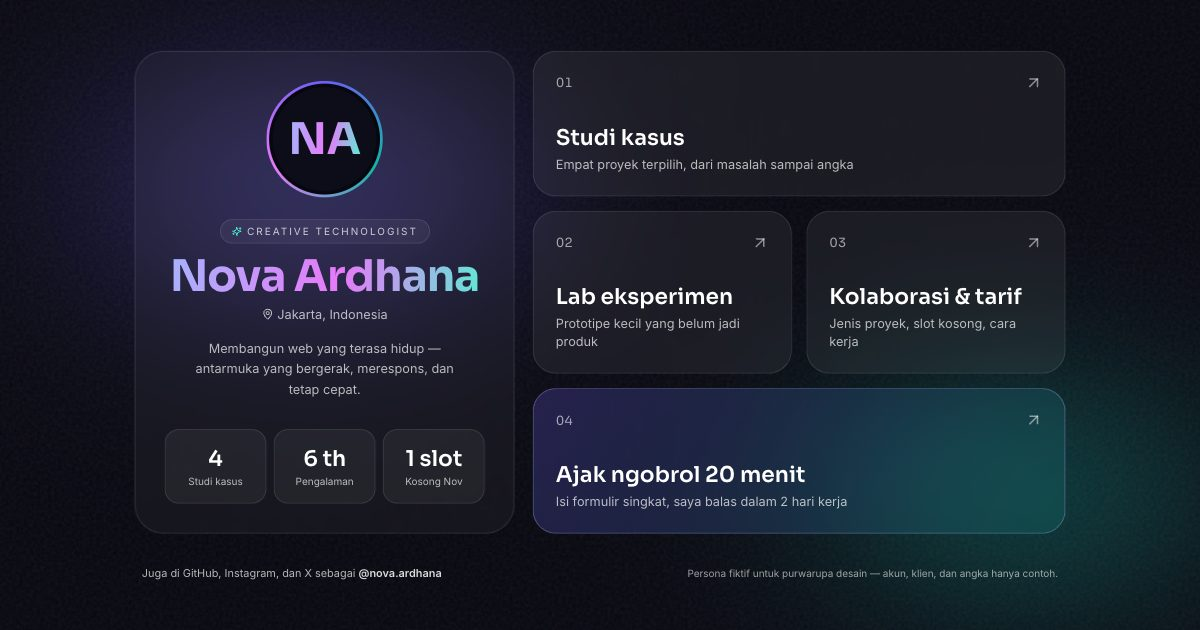
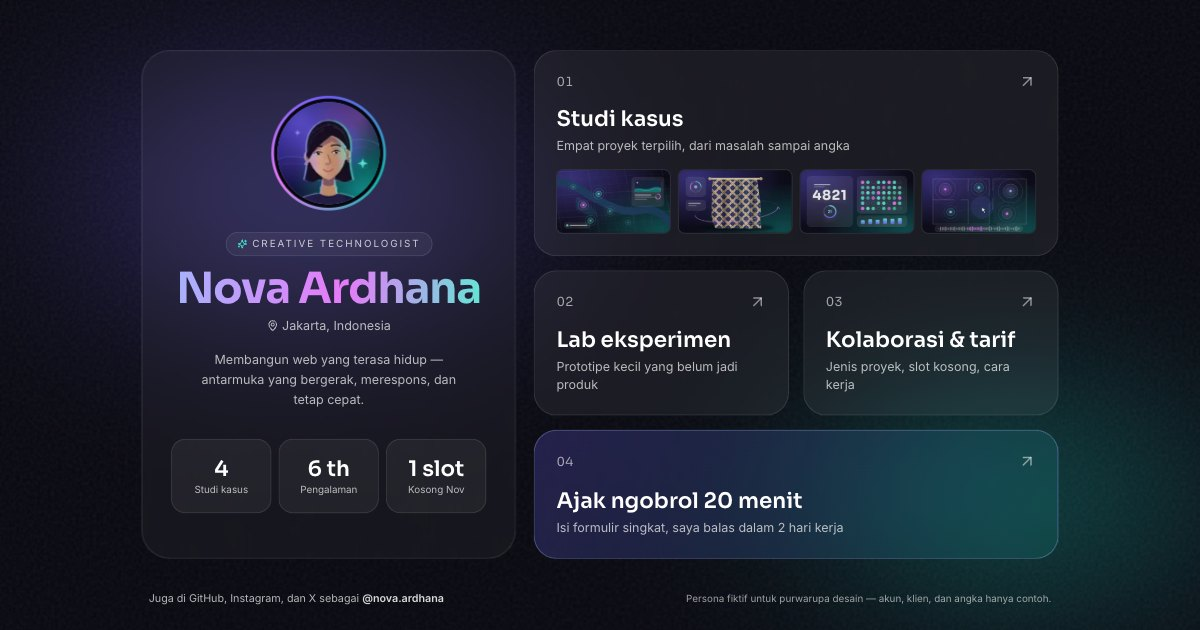
Tambah potret ilustrasi Nova dan sampul empat studi kasus
- Monogram "NA" diganti potret ilustrasi bergaya aurora (persona fiktif, bukan foto)
- Tiap studi kasus di /karya kini bersampul ilustrasi antarmuka; ubin bento
  "Studi kasus" di layar lebar menampilkan deret mini sampulnya
- Gambar statis: varian WebP di public/_img lewat scripts/static-images.mjs,
  dipasang dengan <img srcset> server (tanpa JS klien next/image)
- og.jpg diperbarui; sumber gambar dicatat di public/images/SUMBER.md

diff --git a/lib/nova.js b/lib/nova.js
@@ -24,10 +24,10 @@ export const LINKS = [
 ];
 
 export const KARYA = [
-  { slug: 'peta-banjir', judul: 'Peta Genangan Waktu Nyata', klien: 'Komunitas warga Jakarta Utara (fiktif)', tahun: 2026, peran: 'Desain & front-end', masalah: 'Laporan genangan tersebar di grup percakapan dan cepat tenggelam.', cara: 'Peta ringan yang menerima laporan berfoto, memudar sendiri setelah tiga jam, dan bisa dibuka di ponsel murah.', hasil: [['Waktu muat di 3G', '1,8 dtk'], ['Laporan bulan pertama', '1.240']], stack: ['Next.js', 'MapLibre', 'Service Worker'] },
-  { slug: 'katalog-batik', judul: 'Katalog Batik yang Bisa Diputar', klien: 'Rumah batik di Pekalongan (fiktif)', tahun: 2025, peran: 'Konsep & 3D web', masalah: 'Foto datar tidak memperlihatkan jatuhnya kain.', cara: 'Kain disimulasikan di WebGL; pengunjung bisa memutar dan melihat motif mengikuti lipatan.', hasil: [['Waktu di halaman', '+2,1×'], ['Ukuran model', '380 KB']], stack: ['Three.js', 'Draco', 'Astro'] },
-  { slug: 'dasbor-kelas', judul: 'Dasbor Kehadiran Kelas', klien: 'Bimbel daring (fiktif)', tahun: 2025, peran: 'Riset & desain sistem', masalah: 'Guru menghabiskan 15 menit tiap kelas untuk absen manual.', cara: 'Absen satu ketukan dengan kode kelas yang berganti tiap 30 detik, ditambah ringkasan mingguan untuk orang tua.', hasil: [['Waktu absen', '15 → 2 mnt'], ['Guru aktif', '84']], stack: ['React', 'Supabase', 'Tailwind'] },
-  { slug: 'pameran-suara', judul: 'Pameran Suara Kota', klien: 'Galeri independen di Bandung (fiktif)', tahun: 2024, peran: 'Instalasi web interaktif', masalah: 'Pengunjung pameran daring hanya menggulir lalu pergi.', cara: 'Rekaman suara kota diletakkan di denah; volume berubah mengikuti posisi kursor seperti berjalan di galeri.', hasil: [['Rata-rata kunjungan', '6:40 mnt'], ['Rekaman', '62']], stack: ['Web Audio API', 'Canvas', 'Vite'] },
+  { slug: 'peta-banjir', gambar: '/images/karya/peta-banjir.webp', alt: 'Ilustrasi antarmuka peta genangan: titik laporan warga beriak di sepanjang sungai, dengan kartu laporan berfoto yang memudar setelah tiga jam.', judul: 'Peta Genangan Waktu Nyata', klien: 'Komunitas warga Jakarta Utara (fiktif)', tahun: 2026, peran: 'Desain & front-end', masalah: 'Laporan genangan tersebar di grup percakapan dan cepat tenggelam.', cara: 'Peta ringan yang menerima laporan berfoto, memudar sendiri setelah tiga jam, dan bisa dibuka di ponsel murah.', hasil: [['Waktu muat di 3G', '1,8 dtk'], ['Laporan bulan pertama', '1.240']], stack: ['Next.js', 'MapLibre', 'Service Worker'] },
+  { slug: 'katalog-batik', gambar: '/images/karya/katalog-batik.webp', alt: 'Ilustrasi kain batik bermotif kawung yang tergantung, sebagian ditimpa jaring 3D dan lintasan putar.', judul: 'Katalog Batik yang Bisa Diputar', klien: 'Rumah batik di Pekalongan (fiktif)', tahun: 2025, peran: 'Konsep & 3D web', masalah: 'Foto datar tidak memperlihatkan jatuhnya kain.', cara: 'Kain disimulasikan di WebGL; pengunjung bisa memutar dan melihat motif mengikuti lipatan.', hasil: [['Waktu di halaman', '+2,1×'], ['Ukuran model', '380 KB']], stack: ['Three.js', 'Draco', 'Astro'] },
+  { slug: 'dasbor-kelas', gambar: '/images/karya/dasbor-kelas.webp', alt: 'Ilustrasi dasbor kehadiran: kode kelas empat angka, hitung mundur 30 detik, kisi siswa yang hadir, dan grafik mingguan.', judul: 'Dasbor Kehadiran Kelas', klien: 'Bimbel daring (fiktif)', tahun: 2025, peran: 'Riset & desain sistem', masalah: 'Guru menghabiskan 15 menit tiap kelas untuk absen manual.', cara: 'Absen satu ketukan dengan kode kelas yang berganti tiap 30 detik, ditambah ringkasan mingguan untuk orang tua.', hasil: [['Waktu absen', '15 → 2 mnt'], ['Guru aktif', '84']], stack: ['React', 'Supabase', 'Tailwind'] },
+  { slug: 'pameran-suara', gambar: '/images/karya/pameran-suara.webp', alt: 'Ilustrasi denah galeri dengan sumber suara beriak dan kursor yang mengatur volume, ditambah bentuk gelombang suara.', judul: 'Pameran Suara Kota', klien: 'Galeri independen di Bandung (fiktif)', tahun: 2024, peran: 'Instalasi web interaktif', masalah: 'Pengunjung pameran daring hanya menggulir lalu pergi.', cara: 'Rekaman suara kota diletakkan di denah; volume berubah mengikuti posisi kursor seperti berjalan di galeri.', hasil: [['Rata-rata kunjungan', '6:40 mnt'], ['Rekaman', '62']], stack: ['Web Audio API', 'Canvas', 'Vite'] },
 ];
 
 export const LAB = [

diff --git a/app/page.js b/app/page.js
@@ -1,3 +1,4 @@
+import Gambar from './components/Gambar';
 import Link from 'next/link';
 import { ArrowUpRight, MapPin, Sparkles } from 'lucide-react';
 import { KARYA, LINKS, PROFIL } from '@/lib/nova';
@@ -17,10 +18,10 @@ export default function Home() {
       <div className="w-full max-w-md lg:grid lg:max-w-5xl lg:grid-cols-[minmax(0,5fr)_minmax(0,7fr)] lg:gap-5">
         {/* Profil — di layar lebar menjadi ubin kaca tersendiri */}
         <section aria-labelledby="nama" className="lg:flex lg:flex-col lg:justify-center lg:rounded-[2rem] lg:border lg:border-white/10 lg:bg-white/[0.04] lg:p-8 lg:backdrop-blur">
-          {/* Avatar monogram dengan cincin conic — persona fiktif, tanpa foto */}
-          <div className="rise mx-auto h-28 w-28 rounded-full p-[3px] ring-conic lg:h-32 lg:w-32" aria-hidden="true">
-            <div className="grid h-full w-full place-items-center rounded-full border-4 border-[#07070f] bg-[#0d0d1a]">
-              <span className="text-gradient font-display text-4xl font-bold lg:text-5xl">{PROFIL.inisial}</span>
+          {/* Potret ilustrasi (persona fiktif, bukan foto orang sungguhan) dalam cincin conic */}
+          <div className="rise mx-auto h-28 w-28 rounded-full p-[3px] ring-conic lg:h-32 lg:w-32">
+            <div className="h-full w-full overflow-hidden rounded-full border-4 border-[#07070f] bg-[#0d0d1a]">
+              <Gambar src="/images/nova-ardhana.webp" alt={`Potret ilustrasi ${PROFIL.nama}`} width={128} height={128} loading="eager" className="h-full w-full object-cover" />
             </div>
           </div>
 
@@ -63,6 +64,14 @@ export default function Home() {
               <span className="flex-1 lg:flex-none">
                 <span className="block font-display font-semibold text-white lg:text-2xl">{l.label}</span>
                 <span className="block text-xs text-white/70 lg:mt-1 lg:text-sm">{l.desc}</span>
+                {/* Ubin studi kasus di layar lebar: deret mini sampul keempat proyek */}
+                {i === 0 && (
+                  <span className="mt-4 hidden grid-cols-4 gap-2 lg:grid" aria-hidden="true">
+                    {KARYA.map((k) => (
+                      <Gambar key={k.slug} src={k.gambar} alt="" width={1280} height={720} asli={1280} sizes="150px" className="aspect-video w-full rounded-lg border border-white/10 object-cover opacity-90 transition group-hover:opacity-100" />
+                    ))}
+                  </span>
+                )}
               </span>
               <ArrowUpRight size={18} className="shrink-0 text-white/50 transition duration-300 group-hover:translate-x-0.5 group-hover:-translate-y-0.5 group-hover:text-white lg:hidden" aria-hidden="true" />
             </Link>

diff --git a/app/components/Gambar.jsx b/app/components/Gambar.jsx
@@ -1,0 +1,33 @@
+import manifest from '@/image-manifest.json';
+
+// Gambar statis tanpa JavaScript klien: <img> biasa dengan srcset varian WebP buatan
+// scripts/static-images.mjs (peta hash di image-manifest.json, sama seperti image-loader.js).
+// width/height = ukuran tampil (px CSS); tanpa `sizes` dipakai deskriptor 1x/2x,
+// dengan `sizes` dipakai deskriptor lebar sampai `asli` (lebar berkas sumber).
+const LEBAR = [64, 128, 256, 384, 640, 828, 1080, 1280, 1920];
+const varian = (src, w) => {
+  const hash = manifest[src];
+  return hash ? `/_img${src.replace(/\.(png|jpe?g|webp)$/i, '')}.${hash}-${w}.webp` : src;
+};
+const naik = (w) => LEBAR.find((x) => x >= w) ?? LEBAR[LEBAR.length - 1];
+
+export default function Gambar({ src, alt, width, height, sizes, asli = 1920, priority = false, ...rest }) {
+  const srcSet = sizes
+    ? LEBAR.filter((w) => w <= naik(asli)).map((w) => `${varian(src, w)} ${w}w`).join(', ')
+    : `${varian(src, naik(width))} 1x, ${varian(src, naik(width * 2))} 2x`;
+  return (
+    // eslint-disable-next-line @next/next/no-img-element
+    <img
+      src={varian(src, naik(sizes ? Math.min(asli, 1080) : width * 2))}
+      srcSet={srcSet}
+      sizes={sizes}
+      alt={alt}
+      width={width}
+      height={height}
+      loading={priority ? 'eager' : 'lazy'}
+      fetchPriority={priority ? 'high' : undefined}
+      decoding="async"
+      {...rest}
+    />
+  );
+}

diff --git a/app/karya/page.js b/app/karya/page.js
@@ -1,3 +1,4 @@
+import Gambar from '../components/Gambar';
 import Link from 'next/link';
 import { KARYA, LAB, SITE } from '@/lib/nova';
 import Kembali from '../components/Kembali';
@@ -22,7 +23,10 @@ export default function Karya() {
         <ol className="mt-10 space-y-6">
           {KARYA.map((k, i) => (
             <li key={k.slug} id={k.slug} className="rise scroll-mt-8 rounded-3xl border border-white/10 bg-white/[0.06] p-6 backdrop-blur sm:p-8" style={{ animationDelay: `${0.12 + i * 0.06}s` }}>
-              <p className="flex flex-wrap items-baseline justify-between gap-2 text-xs uppercase tracking-[0.18em] text-white/65">
+              <div className="-mx-2 -mt-2 overflow-hidden rounded-2xl border border-white/10 bg-[#0b0a17] sm:-mx-3 sm:-mt-3">
+                <Gambar src={k.gambar} alt={k.alt} width={1280} height={720} asli={1280} priority={i === 0} sizes="(min-width: 800px) 720px, calc(100vw - 64px)" className="aspect-video w-full object-cover" />
+              </div>
+              <p className="mt-6 flex flex-wrap items-baseline justify-between gap-2 text-xs uppercase tracking-[0.18em] text-white/65">
                 <span>{String(i + 1).padStart(2, '0')} · {k.tahun}</span>
                 <span>{k.peran}</span>
               </p>

diff --git a/image-loader.js b/image-loader.js
@@ -1,0 +1,15 @@
+// Loader next/image untuk gambar statis: varian WebP di public/_img/ buatan skrip static-images (lihat
+// image-manifest.json). Tidak memakai Image Optimization Vercel, jadi tidak terikat kuota bulanan.
+// Lebar yang diminta selalu salah satu dari deviceSizes/imageSizes di next.config (= WIDTHS di bawah).
+// Gambar di luar manifest (SVG, GIF, URL luar, impor statis) dikembalikan apa adanya.
+import manifest from './image-manifest.json'
+
+const WIDTHS = [64,128,256,384,640,828,1080,1280,1920]
+
+export default function staticImageLoader({ src, width }) {
+  const hash = manifest[src]
+  if (!hash) return src
+  const w = WIDTHS.find((x) => x >= width) ?? WIDTHS[WIDTHS.length - 1]
+  const stem = src.slice("".length).replace(/\.(png|jpe?g|webp)$/i, '')
+  return `/_img${stem}.${hash}-${w}.webp`
+}

diff --git a/public/images/SUMBER.md b/public/images/SUMBER.md
@@ -1,0 +1,12 @@
+# Sumber gambar
+
+Semua gambar di folder ini adalah ilustrasi asli buatan PintuWeb (digambar lewat kode SVG, lalu diekspor ke WebP).
+Tidak ada foto stok dan tidak ada wajah orang sungguhan; Nova Ardhana adalah persona fiktif.
+
+| Berkas | Isi | Sumber | Lisensi |
+| --- | --- | --- | --- |
+| nova-ardhana.webp | Potret ilustrasi Nova Ardhana (gaya aurora) | Ilustrasi asli PintuWeb | Milik PintuWeb |
+| karya/peta-banjir.webp | Sampul studi kasus peta genangan | Ilustrasi asli PintuWeb | Milik PintuWeb |
+| karya/katalog-batik.webp | Sampul studi kasus katalog batik 3D | Ilustrasi asli PintuWeb | Milik PintuWeb |
+| karya/dasbor-kelas.webp | Sampul studi kasus dasbor kehadiran | Ilustrasi asli PintuWeb | Milik PintuWeb |
+| karya/pameran-suara.webp | Sampul studi kasus pameran suara kota | Ilustrasi asli PintuWeb | Milik PintuWeb |
